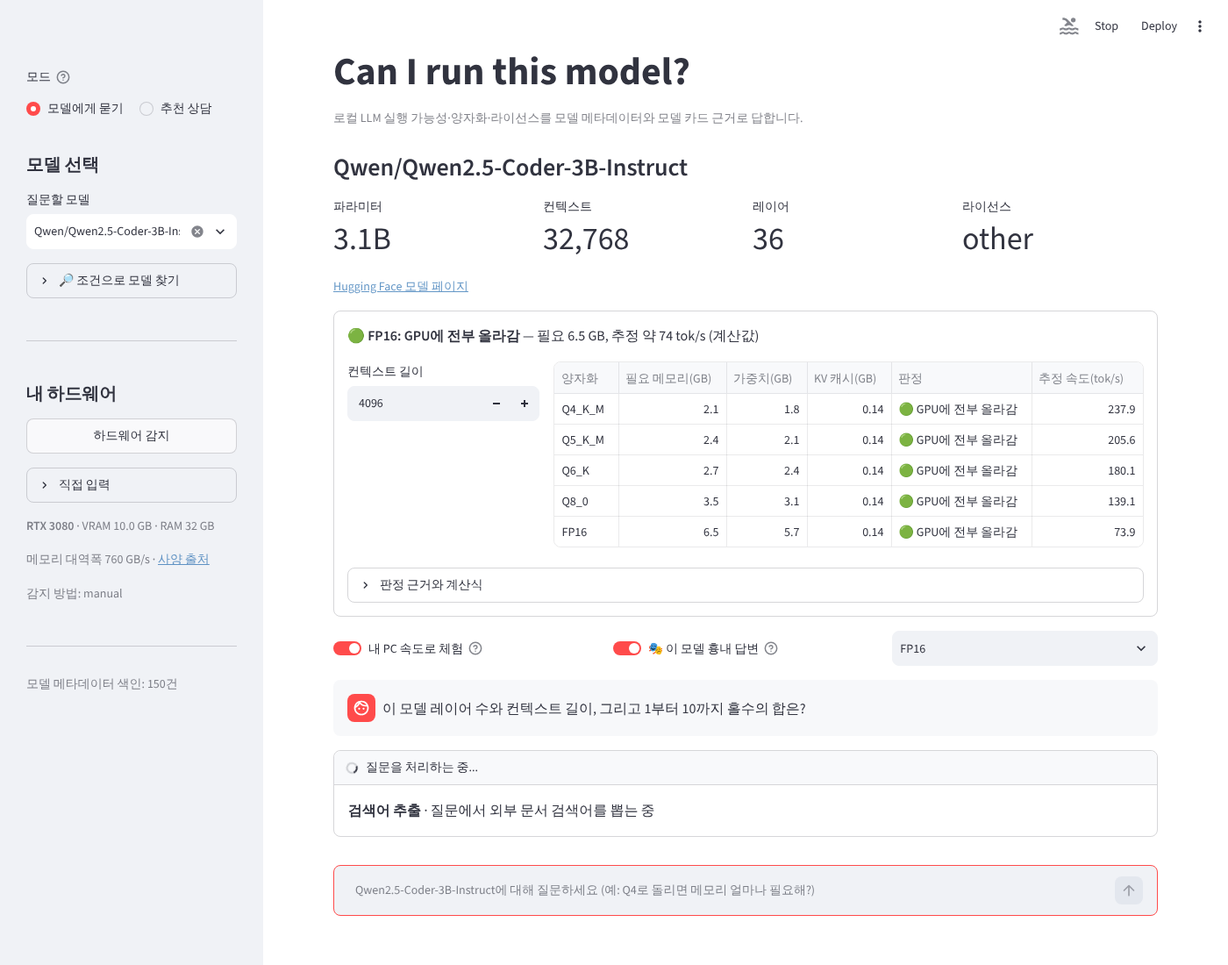
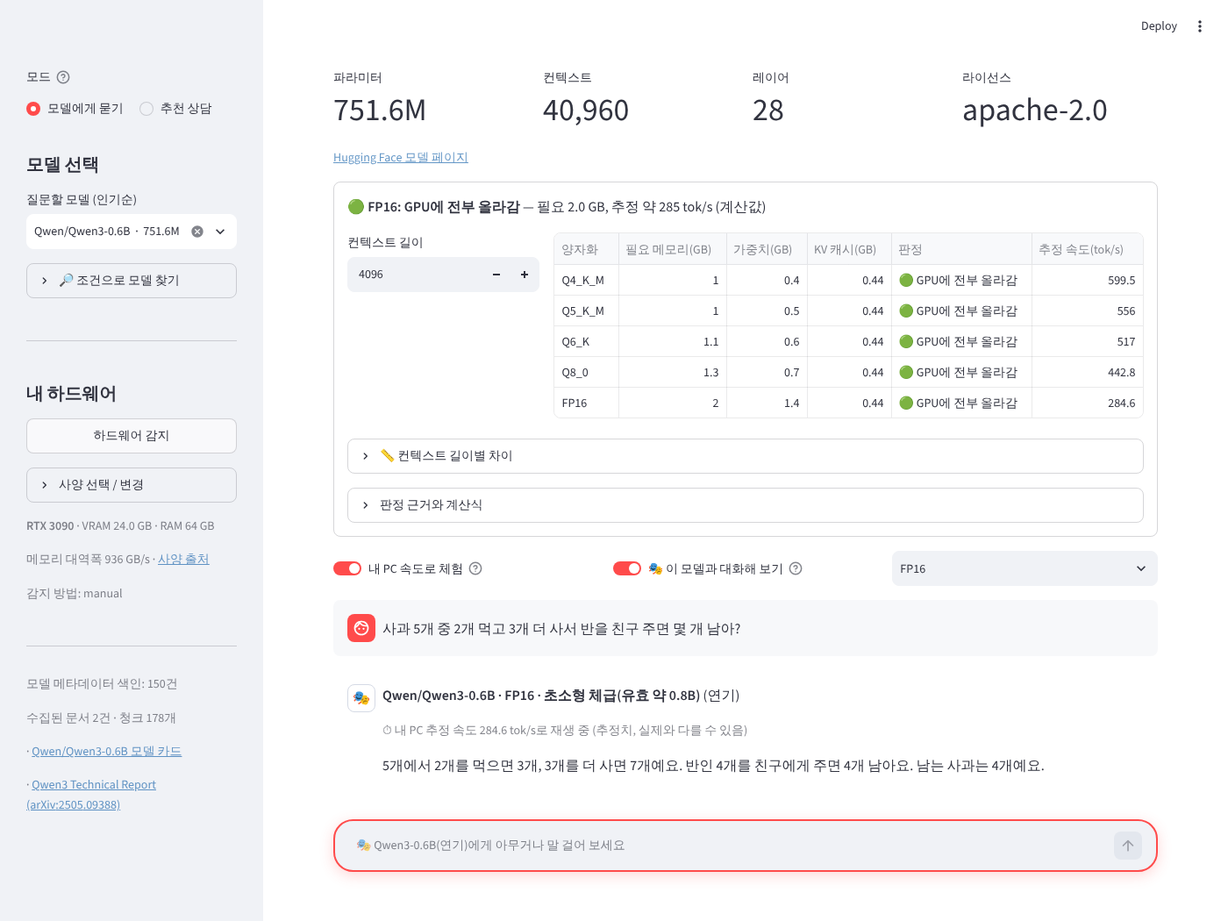
Recapture all screenshots with the current UI; README screens section
- 23 screenshots re-taken (first screen, dropdown in popularity order,
  fit card, progress, cited answers, speed experience, conversation,
  consult narrowing, persona tiers, general question, DGX Spark)
- README: "화면 미리보기" table; verification doc: new capture list with
  the requirement each one proves
- fix: welcome bubble slot kept so example buttons no longer linger as a
  faded ghost while an answer is generated
- fix: "**O(n)**에" now renders bold (hair space before Hangul particles)
- checks: run_checks 38, ui_checks 13

Claude-Session: https://claude.ai/code/session_01T34ZVn1guMP94PHcxJgZfT

diff --git a/app/ui/streamlit_app.py b/app/ui/streamlit_app.py
@@ -7,6 +7,7 @@
 """
 from __future__ import annotations
 
+import re
 import sys
 import time
 from pathlib import Path
@@ -68,6 +69,15 @@ def _compact(n: int | None) -> str:
         if n >= size:
             return f"{n / size:.1f}{unit}"
     return str(n)
+
+
+_BOLD_BEFORE_HANGUL = re.compile(r"(\*\*[^*\n]+?[)\]}\"'.,!?:;]\*\*)(?=[가-힣])")
+
+
+def fix_bold(text: str) -> str:
+    """"**O(n)**에"처럼 굵게 표시의 닫는 ** 바로 뒤에 한글이 붙으면 마크다운이 굵게로 인식하지 못해 별표가 그대로 보인다
+    (닫는 **가 구두점 뒤에 있으면 뒤가 공백·구두점이어야 한다는 CommonMark 규칙). 눈에 안 띄는 얇은 공백(U+200A)을 끼워 막는다."""
+    return _BOLD_BEFORE_HANGUL.sub("\\1\u200a", text)
 
 
 def md_escape(text: str) -> str:
@@ -458,9 +468,9 @@ def render_message(msg: dict, stream_tok_s: float | None = None) -> None:
         if msg["role"] == "assistant" and not msg.get("error"):
             _speed_caption(msg, stream_tok_s)
         if stream_tok_s and msg["role"] == "assistant" and not msg.get("error"):
-            st.write_stream(_paced(msg["content"], stream_tok_s))
+            st.write_stream(_paced(fix_bold(msg["content"]), stream_tok_s))
         else:
-            st.markdown(msg["content"])
+            st.markdown(fix_bold(msg["content"]))
         if msg["role"] == "assistant" and not msg.get("error"):
             render_sources(msg)
             if msg.get("unverified"):
@@ -479,9 +489,9 @@ def render_persona(msg: dict, stream_tok_s: float | None = None) -> None:
         st.markdown(f"**{md_escape(pa['model_id'])} · {pa['quant']} · {pa['tier']} 체급(유효 약 {pa['params_b']}B)** (연기)")
         _speed_caption(msg, stream_tok_s)
         if stream_tok_s:
-            st.write_stream(_paced(pa["answer"], stream_tok_s))
+            st.write_stream(_paced(fix_bold(pa["answer"]), stream_tok_s))
         else:
-            st.markdown(pa["answer"])
+            st.markdown(fix_bold(pa["answer"]))
 
 
 def first_question(m: dict) -> bool:
@@ -754,8 +764,12 @@ def main() -> None:
     question = typed or st.session_state.pop("pending_question", None)
     for msg in history:
         render_message(msg)
+    # 안내 말풍선 자리는 늘 잡아 둔다. 질문이 들어온 실행에서 말풍선을 아예 안 그리면, 답을 만드는 동안
+    # 이전 실행의 예시 버튼이 흐린 잔상으로 질문 아래에 남았다 (Streamlit은 실행이 끝날 때까지 이전 요소를 남긴다)
+    welcome_slot = st.empty()
     if not history and not question:
-        welcome(m, persona_mode)
+        with welcome_slot.container():
+            welcome(m, persona_mode)
 
     if question:
         prior = history_for_prompt(history)

diff --git a/scripts/run_checks.py b/scripts/run_checks.py
@@ -285,6 +285,18 @@ def _():
     return got == ["apple", "Apple M5", 11.2, 153.0], f"{got} | {t.hw_note}"
 
 
+@check("F2008", "굵게 표시(**…**) 뒤에 한글 조사가 붙어도 굵게로 렌더링되도록 보정 (O(n)에 -> 별표가 그대로 보이던 문제)")
+def _():
+    import re as _re
+    src = (PROJECT_ROOT / "app/ui/streamlit_app.py").read_text(encoding="utf-8")
+    ns = {"re": _re}
+    exec(src[src.index("_BOLD_BEFORE_HANGUL"):src.index("def md_escape")], ns)  # noqa: S102 - 우리 코드의 순수 함수만 꺼내 검사
+    f = ns["fix_bold"]
+    fixed = f("**O(n)**에 구하고 **Q4_K_M**으로 돌려요 **굵게** 뒤 공백")
+    ok = "**O(n)**\u200a에" in fixed and "**Q4_K_M**으로" in fixed and fixed.endswith("**굵게** 뒤 공백")
+    return ok, repr(fixed)
+
+
 @check("F2011", "추천 상담: 큰 모델이 안 맞으면 '못 돌림'으로 끝내지 않고 이 PC에 맞는 더 작은 모델을 큰 것부터 제시")
 def _():
     from app.features.hw_detect import manual

diff --git a/docs/eval/test_results.md b/docs/eval/test_results.md
@@ -1,42 +1,43 @@
 # 자동 점검 결과 (테스트 결과표)
 
-- 실행: `python scripts/run_checks.py` · 2026-10-22 08:30 · 통과 37/37
+- 실행: `python scripts/run_checks.py` · 2026-10-23 01:32 · 통과 38/38
 - 기준 모델 `Qwen/Qwen3-8B`, LLM `gpt-6-sol`, 임베딩 `text-embedding-3-large`
 
 | 요구사항 | 점검 내용 | 결과 | 근거(실행 결과) |
 |---|---|---|---|
 | F2001 | 항목 메타데이터 100건 이상 로드, 항목 1건 = 텍스트 1개 | PASS | 150건, 필드 7개 포함 (0.0s) |
-| F2002 | 색인 청크 수 = 항목 수, 재색인해도 불변 | PASS | 색인 전 150 -> 후 150, 항목 150 (7.0s) |
-| F2003 | 프롬프트 1이 파싱 가능한 검색어 배열을 낸다 (모델 ID 포함) | PASS | ['Qwen/Qwen3-8B', 'Qwen3-8B GGUF'] (2.5s) |
-| F2004·NF2002 | 이미 수집한 검색어는 다시 수집하지 않는다 (캐시 히트) | PASS | cache_hit=True, 문서 7건 사용 (4.5s) |
+| F2002 | 색인 청크 수 = 항목 수, 재색인해도 불변 | PASS | 색인 전 150 -> 후 150, 항목 150 (8.3s) |
+| F2003 | 프롬프트 1이 파싱 가능한 검색어 배열을 낸다 (모델 ID 포함) | PASS | ['Qwen/Qwen3-8B', 'Qwen3-8B GGUF'] (8.2s) |
+| F2004·NF2002 | 이미 수집한 검색어는 다시 수집하지 않는다 (캐시 히트) | PASS | cache_hit=True, 문서 7건 사용 (3.6s) |
 | F2004 | 선택 모델의 모델 카드는 항상 색인되어 있다 | PASS | Qwen/Qwen3-8B 색인 문서 7건 (0.0s) |
-| F2005 | model_docs 청크 ID = 모델ID:문서ID:순번, 메타데이터 필드 저장 | PASS | 청크 50개 검사, 예: Qwen/Qwen3-8B:hf_card:Qwen/Qwen3-8B:0 (4.6s) |
+| F2005 | model_docs 청크 ID = 모델ID:문서ID:순번, 메타데이터 필드 저장 | PASS | 청크 50개 검사, 예: Qwen/Qwen3-8B:hf_card:Qwen/Qwen3-8B:0 (0.1s) |
 | F2005 | 청크 크기·중복은 config.yaml에서 읽는다 | PASS | chunk_size=1000, overlap=200 (0.0s) |
-| F2006 | 메타데이터 근거가 항상 [근거 1], Top-k를 바꾸면 근거 수가 바뀐다 | PASS | top_k=2 -> 근거 3건, top_k=6 -> 7건 (2.2s) |
-| F2006 | 청크 ID·본문 해시·근사 중복 제거 | PASS | 근거 8건, 중복 ID 없음 (1.3s) |
+| F2006 | 메타데이터 근거가 항상 [근거 1], Top-k를 바꾸면 근거 수가 바뀐다 | PASS | top_k=2 -> 근거 3건, top_k=6 -> 7건 (11.1s) |
+| F2006 | 청크 ID·본문 해시·근사 중복 제거 | PASS | 근거 8건, 중복 ID 없음 (3.1s) |
 | F2007 | LangGraph가 retrieve -> generate 두 노드 | PASS | 노드 ['retrieve', 'generate'], 엣지 [('__start__', 'retrieve'), ('retrieve', 'generate'), ('generate', '__end__')] (0.0s) |
-| F2007 | 문서에 없는 질문: 추측한 수치 없이 자료에 없다고 대화체로 밝힌다 (고정 문구 없음) | PASS | 고정 문구 False, 지어낸 수치 [] / 찾아본 자료에는 **Qwen3-8B 학습에 쓴 총 GPU 시간과 비용**이 나와 있지 않아요. 기술 보고서의 GPU 시간 언급은 증류와 직접 강화학습을 비교하는 (7.4s) |
-| F2008 | 실제 인용된 근거만 표시, 인용이 없으면 안내 | PASS | [근거 3][근거 9] -> [3], 없음 안내 '' (9.0s) |
+| F2007 | 문서에 없는 질문: 추측한 수치 없이 자료에 없다고 대화체로 밝힌다 (고정 문구 없음) | PASS | 고정 문구 False, 지어낸 수치 [] / 찾아본 자료에는 **Qwen3-8B 전체 학습에 쓴 GPU 시간과 비용**이 나와 있지 않아요. 기술 보고서에는 8B 체크포인트를 사용한 *증류와 강화학습의 GP (5.7s) |
+| F2008 | 실제 인용된 근거만 표시, 인용이 없으면 안내 | PASS | [근거 3][근거 9] -> [3], 없음 안내 '' (11.3s) |
 | F2008 | 근거에 없는 수치를 인용 형식으로 쓰면 경고 (환각 검출) | PASS | ['- TopK: 50 [근거 1] (근거에 없는 수치: 50)'] (0.0s) |
 | F2008 | 단위가 붙은 소수(180.0B)는 일부(180)만 떼어 검사하지 않는다 (오탐 회귀) | PASS | 경고 [] (0.0s) |
-| F2007 | 대화형 답변: 후속 질문은 이전 대화로 이해, 근거 밖 일반 지식에서 근거 없는 수치 문장 제거 | PASS | 후속 '그럼 Q8_0은?' 답에 Q8_0 계산값 9.5 GB 포함=True, 일반 지식 수치 문장 제거 ['보통 수백 GPU 시간이 걸립니다.'] (11.1s) |
-| F2007 | 모델과 관계없는 일반 질문(알고리즘 문제)은 문서 검색 없이 일반 답변, 수치 제거 장치를 적용하지 않음 | PASS | 검색어 [], 일반 질문=True, 안내='선택한 모델의 문서와 관계없는 일반 질문이라, 문서 검색 없이 일반 지식', 코드 포함=True (12.3s) |
+| F2007 | 대화형 답변: 후속 질문은 이전 대화로 이해, 근거 밖 일반 지식에서 근거 없는 수치 문장 제거 | PASS | 후속 '그럼 Q8_0은?' 답에 Q8_0 계산값 9.5 GB 포함=True, 일반 지식 수치 문장 제거 ['보통 수백 GPU 시간이 걸립니다.'] (14.9s) |
+| F2007 | 모델과 관계없는 일반 질문(알고리즘 문제)은 문서 검색 없이 일반 답변, 수치 제거 장치를 적용하지 않음 | PASS | 검색어 [], 일반 질문=True, 안내='선택한 모델의 문서와 관계없는 일반 질문이라, 문서 검색 없이 일반 지식', 코드 포함=True (10.3s) |
 | F2001 | 최신 멀티모달(image-text-to-text) 모델과 최근 뜨는 원본 모델도 목록에 포함 | PASS | 태그 ['image-text-to-text', 'text-generation'], 포함 ['Qwen/Qwen3.8-27B', 'Qwen/Qwen3.6-35B-A3B', 'google/gemma-4-31B-it'], trending 30건 (예: ['deepseek-ai/DeepSeek-V4.1-Flash-1017', 'meta-models/Muse-Spark-Open-816B-A42B', 'Qwen/Qwen3.8-27B']) (0.0s) |
 | F2010 | 하이브리드 어텐션 KV: 선형 레이어 제외, sliding 레이어는 창 크기까지만 | PASS | Qwen3.8-27B 32k KV 2.00GB (전체 레이어로 보면 8.00GB, 비율 0.25 = 전체 어텐션 16/64), Gemma4-31B 32k 3.28GB (전체로 보면 30.00GB), 32k→64k 증가분 = 전체 어텐션 레이어 몫 (0.0s) |
 | F2010 | 판정·속도 계산 (Qwen3-8B, RTX 3080, 컨텍스트 4096) | PASS | Q4_K_M 5.8 GB GPU에 전부 올라감, 80.1 tok/s (0.0s) |
-| F2011 | 조건 탐색 결과가 조건(용도 code)에 맞는 모델만 | PASS | Qwen/Qwen2.5-Coder-14B-Instruct, Qwen/Qwen2.5-Coder-7B-Instruct, Qwen/Qwen2.5-Coder-32B-Instruct (14.6s) |
+| F2011 | 조건 탐색 결과가 조건(용도 code)에 맞는 모델만 | PASS | Qwen/Qwen2.5-Coder-14B-Instruct, Qwen/Qwen2.5-Coder-7B-Instruct, Qwen/Qwen2.5-Coder-32B-Instruct (11.7s) |
 | F2010 | 컨텍스트가 길수록 KV 캐시·필요 메모리는 커지고 속도는 줄어든다 (KV 읽기 포함) | PASS | 2k: KV 0.28GB 85tok/s / 4k: KV 0.56GB 80tok/s / 8k: KV 1.12GB 72tok/s / 16k: KV 2.25GB 61tok/s / 32k: KV 4.50GB 38tok/s / 40k: KV 5.62GB 15tok/s (0.0s) |
 | F2010 | 흉내 답변 체급: 유효 파라미터로 구간 결정 (MoE는 sqrt(전체×활성)) | PASS | Qwen3-0.6B=초소형, Qwen3-4B=소형, Qwen3-8B=중형, Qwen3-30B-A3B=중형, Qwen3-32B=대형 (0.0s) |
 | F2011 | 추천 상담: 사용자가 말하지 않은 언어 조건은 빼고, 말한 언어는 남긴다 (예시 베끼기 회귀) | PASS | 말 안 함 → '코딩용 모델 내 GPU에서 돌아가는 거' / 말함 → '한국어 되는 코딩용 모델' (0.0s) |
 | F2011 | 조건 탐색 검색 문장에서 하드웨어 말을 뺀다 (GPU는 코드 필터로 따로 거름) | PASS | → '수 있는 코딩용 모델' (0.0s) |
-| F2011 | 추천 상담: '맥북 M5 16기가'는 사이드바 GPU가 아니라 Apple M5 통합 메모리로 판정 | PASS | ['apple', 'Apple M5', 11.2, 153.0] / 대화에서 알려 주신 하드웨어(Apple M5, GPU 사용 가능 11.2 GB, RAM 16 GB)로 판정합니다. (3.9s) |
+| F2011 | 추천 상담: '맥북 M5 16기가'는 사이드바 GPU가 아니라 Apple M5 통합 메모리로 판정 | PASS | ['apple', 'Apple M5', 11.2, 153.0] / 대화에서 알려 주신 하드웨어(Apple M5, GPU 사용 가능 11.2 GB, RAM 16 GB)로 판정합니다. (3.8s) |
+| F2008 | 굵게 표시(**…**) 뒤에 한글 조사가 붙어도 굵게로 렌더링되도록 보정 (O(n)에 -> 별표가 그대로 보이던 문제) | PASS | '**O(n)**\u200a에 구하고 **Q4_K_M**으로 돌려요 **굵게** 뒤 공백' (0.0s) |
 | F2011 | 추천 상담: 큰 모델이 안 맞으면 '못 돌림'으로 끝내지 않고 이 PC에 맞는 더 작은 모델을 큰 것부터 제시 | PASS | 27B=일부 CPU 오프로딩 필요, 대안 [('Qwen2.5-Coder-14B-Instruct', 21), ('Qwen2.5-14B-Instruct', 21), ('Qwen3-14B', 21), ('Qwen3.5-9B', 26)] (0.0s) |
 | F2011 | 추천 상담: 모델 이름으로 물으면 그 모델을 찾고(띄어쓰기·꼬리 무시), 안 맞으면 같은 계열 대안 | PASS | {'qwen 3.8 flash next 쓸 수 있음?': ['Qwen/Qwen3.8-Flash-Next'], 'gemma 4 31b 어때': ['google/gemma-4-31B-it'], '코딩용 모델 추천해줘': []} / Flash-Next on M5 Max 64GB: 불가, 대안 ['Qwen/Qwen3.8-27B'] (0.0s) |
-| F2011 | 추천 상담: 사용자가 말하지 않은 하드웨어는 쓰지 않는다 (LLM이 현재 사양을 되풀이해 40코어 -> 32코어로 바뀌던 회귀) | PASS | 하드웨어 None (6.8s) |
+| F2011 | 추천 상담: 사용자가 말하지 않은 하드웨어는 쓰지 않는다 (LLM이 현재 사양을 되풀이해 40코어 -> 32코어로 바뀌던 회귀) | PASS | 하드웨어 None (11.2s) |
 | F2010 | DGX Spark: 통합 메모리 128GB × 0.9(가정값)를 GPU 몫으로, 넘치면 같은 메모리에서 오프로딩, 대역폭 273GB/s | PASS | unified, 메모리 128.0 GB, GPU 몫 115.2 GB, 273.0 GB/s, Flash-Next FP16 369 GB → 불가 (0.0s) |
 | F2011 | 대화 속 GPU 이름 매칭 (줄임말·VRAM 구분) | PASS | {'4090': 'RTX 4090', '3080 ti': 'RTX 3080 Ti', 'RTX 3080': 'RTX 3080', 'M4 Pro': 'Apple M4 Pro'} (0.0s) |
-| F2012 | 라이선스 질문에 면책 안내 | PASS | 출처 표시도 유지해야 합니다. [근거 2] 법률 자문이 아니며, 정확한 조건은 원문 라이선스를 확인하세요. (12.8s) |
-| NF2001 | 대표 질문 응답 시간 (수집 캐시 히트 상태) | PASS | 6.8초 (단계별 수집 1.7s, 검색 1.9s, 생성 3.2s) (6.8s) |
+| F2012 | 라이선스 질문에 면책 안내 | PASS | lob/main/LICENSE [근거 1] 법률 자문이 아니며, 정확한 조건은 원문 라이선스를 확인하세요. (11.0s) |
+| NF2001 | 대표 질문 응답 시간 (수집 캐시 히트 상태) | PASS | 6.6초 (단계별 수집 1.3s, 검색 1.9s, 생성 3.5s) (6.6s) |
 | NF2003 | API 키가 커밋된 파일에 없다 | PASS | 추적 파일 98개 중 키 포함 0개, .env gitignore=True (0.1s) |
 | NF2004 | 오류는 사용자 문구로 바꾸고 스택 트레이스를 노출하지 않는다 | PASS | 답변을 만드는 중 오류가 발생했습니다. 잠시 후 다시 시도해 주세요. (0.0s) |
 | NF2005 | 수집·색인·검색·생성·UI 모듈 분리, 도메인 의존 코드는 data_prep | PASS | app/data_prep, app/collect, app/index, app/rag, app/features, app/ui (0.0s) |

diff --git a/docs/03_verification.md b/docs/03_verification.md
@@ -4,7 +4,7 @@
 
 | 증빙 | 내용 | 재현 명령 |
 |---|---|---|
-| [eval/test_results.md](eval/test_results.md) | 요구사항 자동 점검 37항목 | `python scripts/run_checks.py` |
+| [eval/test_results.md](eval/test_results.md) | 요구사항 자동 점검 38항목 | `python scripts/run_checks.py` |
 | [eval/ui_test_results.md](eval/ui_test_results.md) | 화면 점검 13항목 (Streamlit AppTest) | `python scripts/ui_checks.py` |
 | [eval/mmr_comparison.md](eval/mmr_comparison.md) | 유사도 vs MMR 근거 비교 (F2014) | `python scripts/compare_mmr.py` |
 | [eval/rag_comparison.md](eval/rag_comparison.md) | RAG 사용 전후 답변 비교 (F2015) | `python scripts/compare_rag.py` |
@@ -113,7 +113,7 @@ RAG 없이: 레이어 32 / KV 16 (정답 36/8), 샘플링 0.7/0.9/50 (정답 0.6
 
 ## 3. 테스트 결과표
 
-자동 점검 37항목과 화면 점검 13항목의 전체 표는 [eval/test_results.md](eval/test_results.md), [eval/ui_test_results.md](eval/ui_test_results.md).
+자동 점검 38항목과 화면 점검 13항목의 전체 표는 [eval/test_results.md](eval/test_results.md), [eval/ui_test_results.md](eval/ui_test_results.md).
 
 추가로 개발 중 수동 확인한 비정상·경계 상황:
 
@@ -153,27 +153,33 @@ RAG 없이: 레이어 32 / KV 16 (정답 36/8), 샘플링 0.7/0.9/50 (정답 0.6
 
 ## 5. 화면 캡처 목록
 
-| 파일 | 내용 |
-|---|---|
-| p5_01_initial.png | 첫 화면, 메타데이터 색인 150건 |
-| p5_02_search.png | 모델 검색 선택 |
-| p5_03_selected.png | 선택 모델 헤더, 수집 문서 목록 |
-| p5_04_status.png | 진행 상태 단계 표시 |
-| p5_05_answer.png | 항목마다 근거 번호, 인용 근거 목록 |
-| p6_01_fit_card.png | 하드웨어 직접 입력, 판정 카드(양자화별 표, 대안, 근거·계산식) |
-| p6_02_streaming.png | 내 PC 속도로 체험 (추정 tok/s 재생) |
-| p6_03_answer.png | 판정 답변 (계산값 + [근거 1]) |
-| p7_01_recommend.png | 조건 탐색 결과 카드 |
-| p7_02_license.png | 라이선스 답변 (라이선스 원문 근거, 면책 안내) |
-| p10_01_consult.png | 추천 상담 (되묻기 → 대화 속 하드웨어로 판정이 붙은 카드) |
-| p10_02_persona_streaming.png | 🎭 흉내 답변을 추정 속도로 재생 |
-| p10_03_persona_done.png | 흉내 답변 + 바뀐 수치 비교 (이전 화면. 지금은 흉내 답변을 켜면 연기 답변만 보이고 비교 칸은 없앴다) |
-| p11_01_onboarding_mac.png | 첫 화면 사양 선택 (Mac 탭: 칩·통합 메모리·GPU 비율) |
-| p11_02_context_table.png | 컨텍스트 길이별 차이 표 (M3 Max 40-core · 36GB, Qwen3-8B FP16: 2k 14.4 → 40k 10.7 tok/s) |
-| p12_01_welcome.png | 새 모델(Qwen3.8-27B) 선택 시 안내 말풍선·예시 질문 버튼·첫 질문 소요 안내, 강조된 질문 입력창 |
-| p12_02_conversation.png | 예시 질문 → 계산값 인용 + 일반적인 경우(근거 문서 아님) 대화형 답변 |
-| p12_03_followup.png | 후속 질문 "그럼 Q8로 하면 3090에 다 올라가?"를 이전 대화로 이해해 답변 |
-| p13_01_persona_speed.png | 속도 체험 + 🎭 흉내 답변을 함께 켠 경우: 연기 답변만 추정 속도(52.7 tok/s)로 재생, 모서리를 고친 질문 입력창 |
+2026-10-23에 현재 화면(gpt-6-sol, 인기순 드롭다운, 대화형 답변)으로 전부 다시 찍었다. 설정: 아래 표의 사양 (Mac M3 Max 36GB, RTX 3080 10GB·RAM 32GB, RTX 3090).
+
+| 파일 | 내용 | 확인 항목 |
+|---|---|---|
+| p5_01_initial.png | 첫 화면: 내 PC 사양 선택, 메타데이터 색인 150건 | F2001, F2012 |
+| p5_02_search.png | 모델 드롭다운(인기순, 다운로드 수 표시) | F2009 |
+| p5_03_selected.png | 선택 모델 헤더, 판정 카드, 수집 문서 목록, 안내 말풍선·예시 질문 | F2009, F2010 |
+| p5_04_status.png | 질문 처리 중 진행 상태 단계 표시 | F2012 |
+| p5_05_answer.png | 항목마다 근거 번호, 인용한 근거만 목록에 표시 | F2008 |
+| p6_01_fit_card.png | 판정 카드(양자화별 표, 대안, 근거·계산식) | F2010 |
+| p6_02_streaming.png | 내 PC 속도로 체험 (추정 tok/s 재생) | F2010 |
+| p6_03_answer.png | 판정 답변 (계산값 + [근거 1]) | F2010 |
+| p7_01_recommend.png | 조건 탐색 결과 카드 | F2011 |
+| p7_02_license.png | 라이선스 답변 (라이선스 원문 근거, 면책 안내) | F2010-4, F2012 |
+| p10_01_consult.png | 추천 상담 (되묻기 → 대화 속 하드웨어로 판정이 붙은 카드) | F2011 |
+| p10_02_persona_streaming.png | 🎭 대화(0.6B 연기)를 추정 속도로 재생 | F2010-5 |
+| p10_03_persona_done.png | 🎭 후속 질문까지 이어진 대화 (0.6B: 산수를 틀림) | F2010-5 |
+| p11_01_onboarding_mac.png | 첫 화면 사양 선택 (Mac 탭: 칩·통합 메모리·GPU 비율) | F2010-7 |
+| p11_02_context_table.png | 컨텍스트 길이별 차이 표 | F2010-6 |
+| p12_01_welcome.png | 새 모델 선택 시 안내 말풍선·예시 질문 버튼·첫 질문 소요 안내 | F2009-2 |
+| p12_02_conversation.png | 예시 질문 → 계산값 인용 + "일반적인 경우(근거 문서 아님)" 구분 | F2007, F2009-2 |
+| p12_03_followup.png | 후속 질문을 이전 대화로 이해해 답변 | F2009-2 |
+| p13_01_persona_speed.png | 🎭 대화(27B 연기, 큰 체급은 정답) + 속도 체험 | F2010-5 |
+| p14_01_general_answer.png | 모델과 관계없는 일반 질문(알고리즘)도 답하고 "근거 문서 없음" 안내 | F2007 |
+| p14_02_consult_narrow.png | 상담: 큰 모델이 느리면 이 PC에 맞는 더 작은 모델을 큰 것부터 제시 | F2011 |
+| p14_03_dgx_spark.png | 통합 메모리 PC 탭 (DGX Spark 128GB, GPU 비율) | F2010 |
+| p14_04_dgx_fit.png | DGX Spark에서 Qwen3.8-Flash-Next 판정 | F2010 |
 
 ## 6. 상호 체크리스트 (옆 교육생 점검용)
 

diff --git a/docs/eval/ui_test_results.md b/docs/eval/ui_test_results.md
@@ -11,9 +11,9 @@
 | F2012 | 색인 0건이면 색인 스크립트 실행 안내 | PASS | 모델 메타데이터 색인이 비어 있습니다 (0건). 터미널에서 `python scripts/build_meta_index.py`를 먼저 실행하세요 |
 | NF2004 | 잘못된 키: 사용자 문구만 표시, 화면 예외 없음 | PASS | ⚠ API 키가 올바르지 않습니다. .env의 OPENAI_API_KEY를 확인하세요. |
 | F2010 | 컨텍스트 32k 설정 후 최대 2k 모델로 전환해도 예외 없음, 돌아오면 값 복원 | PASS | 전환 후 2048, 복귀 후 32768, 예외 0 |
-| F2010 | 🎭 대화 체험: 문서 검색 없이 아무 주제나 답하고 이전 대화를 기억, 근거 Q&A 기록과 분리 | PASS | 안내 ['🎭'], 문서 수집 상태 0개, 말풍선 ['user', '🎭', 'user', '🎭'], 답1 ['**능금**은 사과와 비슷한 과일이야. 보통 재래종 사과를 가리키는데, 우리가 흔히 먹는 개량 사과보다 작고 신맛이 강한 편이야. 일상에선 사과의 옛 이름처럼 쓰이기도 해.'], 후속 답 ['능금이 뭐냐고 물어봤어.'], 끄면 ['assistant'] |
+| F2010 | 🎭 대화 체험: 문서 검색 없이 아무 주제나 답하고 이전 대화를 기억, 근거 Q&A 기록과 분리 | PASS | 안내 ['🎭'], 문서 수집 상태 0개, 말풍선 ['user', '🎭', 'user', '🎭'], 답1 ['**능금**은 사과와 닮은 작은 과일이야. 예부터 우리나라에서 재배해 온 재래종을 가리키고, 옛말이나 문학 작품에서는 **사과를 뜻하는 말**로도 쓰여. 보통 우리가 먹는 사과보다'], 후속 답 ['능금이 뭐냐고 물어봤어.'], 끄면 ['assistant'] |
 | F2011 | 추천 상담: 모델 이름으로 물으면 그 모델의 내 PC 판정 카드, 안 맞으면 같은 계열 대안 (사양은 그대로 유지) | PASS | ['**Qwen/Qwen3.8-Flash-Next**은(는) Apple M5 Max (40-core GPU)에서 쓰기 어려워요: 불가 (어떤 양자화로도 메모리에 안 올라감) (계산값). 대신 이 PC에 맞는 더 작은 / 카드 ['**Qwen/Qwen3.8-Flash-Next**', '**Qwen/Qwen3.5-35B-A3B**', '**Qwen/Qwen2.5-32B-Instruct**', '**Qwen/Qwen3.6-35B-A3B**', '**Qwen/Qwen2.5-VL-32B-Instruct**'] / 사양 Apple M5 Max (40-core GPU) |
 | F2010 | 속도 체험: 사양을 건너뛰고 모델만 골라도 켜면 자동 감지 후 재생, 예전 TODO였던 RTX 4070은 사양표 대역폭으로 재생 | PASS | 자동 감지(none) 후 ['⏱ 내 PC 추정 속도 32.8 tok/s로 재생 중 (추정치, 실제와 다를 수 있음)'] / 직접 입력 ['RTX 4070', 504.0, 'https://en.wikipedia.org/wiki/List_of_Nvidia_graphics_processing_units'] 후 ['⏱ 내 PC 추정 속도 153.3 tok/s로 재생 중 (추정치, 실제와 다를 수 있음)'] |
-| F2009 | 빈 대화: 안내 말풍선과 첫 질문 소요 안내, 예시 질문 버튼으로 바로 질문 | PASS | google/gemma-3-1b-it: 질문 전 ['assistant'], 첫 질문 안내=True, 진행 상태 ['답변 완료 · 첫 질문이라 근거 문서 수집 포함 10초'] → 질문 ['권장 샘플링 설정은?'] 후 ['user', 'assistant'] |
+| F2009 | 빈 대화: 안내 말풍선과 첫 질문 소요 안내, 예시 질문 버튼으로 바로 질문 | PASS | google/gemma-3-1b-it: 질문 전 ['assistant'], 첫 질문 안내=True, 진행 상태 ['답변 완료 · 첫 질문이라 근거 문서 수집 포함 7초'] → 질문 ['권장 샘플링 설정은?'] 후 ['user', 'assistant'] |
 | F2011 | 추천 상담: 되묻기 1회 후 검색, 대화 속 하드웨어 적용, 카드 클릭 시 대화로 전환 | PASS | 카드 1개, 하드웨어 RTX 3080, 전환 후 모델에게 묻기 / Qwen/Qwen2.5-Coder-7B-Instruct |
 | F2010 | 첫 화면 사양 선택(Mac 탭): M3 Max 40코어·36GB → 통합 메모리 판정, 컨텍스트별 차이 표 | PASS | 첫 화면 True → 적용 후 False, 하드웨어 ['apple', 'Apple M3 Max (40-core GPU)', 25.2, 400.0], 판정 ['🟢 **Q5_K_M: GPU에 전부 올라감** — 필요 22.9 GB, 추정 약 94 tok/s (계산값, 컨텍스트 표 6행 |

diff --git a/docs/02_rag_design.md b/docs/02_rag_design.md
@@ -277,6 +277,8 @@ LLM은 **다음 행동만** 정한다(`ask` / `search`, 모은 조건 한 문장
 | 46 | 알고리즘 문제를 넣자 "GMS에 연결하지 못했습니다" (사용자 제보) | gpt-6-luna가 어려운 문제에서 오래 추론(생성 45~80초)해 제한 60초 초과, 시간 초과도 연결 실패 문구로 표시. 성공해도 일반 지식 수치 제거 장치가 풀이의 수식을 지워 빈 수식만 남음, 프롬프트 1의 []를 실패로 보고 2번 재요청 | 제한 180초, 시간 초과 전용 문구. 프롬프트 1이 []이면 "모델과 관계없는 일반 질문"으로 보고 문서 검색 없이 일반 답변(수치 제거 장치 없음, "근거 문서 없음" 안내) |
 | 47 | 답변 모델 교체 luna → sol (사용자 요청) | — | 알고리즘 문제 약 60초 → 28초(둘 다 정답, 완전 탐색으로 검증), 🎭 중형 이하 실수가 더 그럴듯함. 짧은 호출(검색어 추출)은 sol이 2~8초로 luna(1.6~1.9초)보다 들쭉날쭉. 자동 점검 36/36, 화면 점검 13/13 |
 | 48 | 상담에서 큰 모델이 안 맞으면 "RTX 5060 Ti 16GB에서 못 돌림"으로 끝남 (사용자 지적) | 오프로딩(돌아가지만 느림)도 "쓰기 어려워요"로 단정, 대안은 같은 계열(Qwen3.8)만 찾아 더 작은 게 없으면 0건 | 오프로딩은 "돌아가긴 해요(느릴 수 있음)"로, 안 맞으면 계열을 넘어 이 PC의 GPU에 다 올라가는 더 작은 모델을 큰 것부터 제시(smaller_alternatives) → "점점 줄여 나가기" |
+| 49 | 안내 말풍선의 예시 버튼이 질문 처리 중 흐린 잔상으로 질문 아래에 남음 (화면 재촬영 중 발견) | 질문이 들어온 실행에서는 말풍선을 아예 안 그려, 이전 실행의 요소가 끝날 때까지 남음 (#37과 같은 원인) | 말풍선 자리를 항상 잡아 두고(st.empty) 질문이 없을 때만 채움. 브라우저에서 남는 흐린 버튼 수 0 확인 |
+| 50 | 답변의 "**O(n)**에"가 굵게 안 되고 별표가 그대로 보임 | 닫는 `**`가 구두점 뒤에서 한글 조사와 붙으면 마크다운이 굵게로 인식하지 않음 | 해당 경우에만 얇은 공백(U+200A)을 끼워 렌더링 (회귀 테스트) |
 
 ## 11. 한계와 개선 방향
 

diff --git a/README.md b/README.md
@@ -18,6 +18,19 @@
 
 ---
 
+## 화면 미리보기
+
+| | |
+|---|---|
+| **내 PC 사양 선택** (Mac·NVIDIA·통합 메모리·GPU 없음 탭)<br>![사양 선택](docs/screenshots/p11_01_onboarding_mac.png) | **모델 판정 + 속도 + 근거 계산식** (양자화별 표)<br>![판정 카드](docs/screenshots/p6_01_fit_card.png) |
+| **근거를 단 답변** (인용한 근거만 원문 링크와 함께)<br>![근거 답변](docs/screenshots/p5_05_answer.png) | **컨텍스트 길이별 차이** (KV 캐시·메모리·속도)<br>![컨텍스트 표](docs/screenshots/p11_02_context_table.png) |
+| **대화형 답변** (근거 / 일반 지식 구분, 후속 질문 이해)<br>![대화](docs/screenshots/p12_03_followup.png) | **추천 상담** (안 맞으면 더 작은 모델로 좁혀 감)<br>![상담](docs/screenshots/p14_02_consult_narrow.png) |
+| **🎭 이 모델과 대화해 보기** (0.6B 연기: 산수를 틀림)<br>![초소형](docs/screenshots/p10_03_persona_done.png) | **같은 질문, 27B 연기** (정답) + 속도 체험<br>![대형](docs/screenshots/p13_01_persona_speed.png) |
+
+전체 캡처와 확인 항목은 [docs/03_verification.md](docs/03_verification.md) 5장.
+
+---
+
 ## 1. 실행 방법
 
 Python 3.10 이상 (개발·검증: 3.13).
@@ -63,7 +76,7 @@ streamlit run app/ui/streamlit_app.py
 ### 검증·실험 스크립트
 | 명령 | 용도 |
 |---|---|
-| `python scripts/run_checks.py` | 요구사항 자동 점검 37항목 → `docs/eval/test_results.md` |
+| `python scripts/run_checks.py` | 요구사항 자동 점검 38항목 → `docs/eval/test_results.md` |
 | `python scripts/ui_checks.py` | 화면 점검 13항목 (첫 화면 사양 선택, 빈 대화 안내·예시 질문, 속도 체험 자동 감지·대역폭 직접 입력, 모델별 대화, 진행 상태, 키 누락·색인 0건·잘못된 키, 컨텍스트 전환 회귀, 흉내 답변, 추천 상담) → `docs/eval/ui_test_results.md` |
 | `python scripts/collect_demo.py "<모델ID>" "<질문>"` | 프롬프트 1 검색어, 후보, 프롬프트 2 선별/제외, 색인 결과, 캐시 사용 여부 |
 | `python scripts/ask_demo.py "<모델ID>" "<질문>" [--top-k N] [--search-type mmr]` | 근거 목록, 답변, 인용 근거, 수치 검증 경고 |
